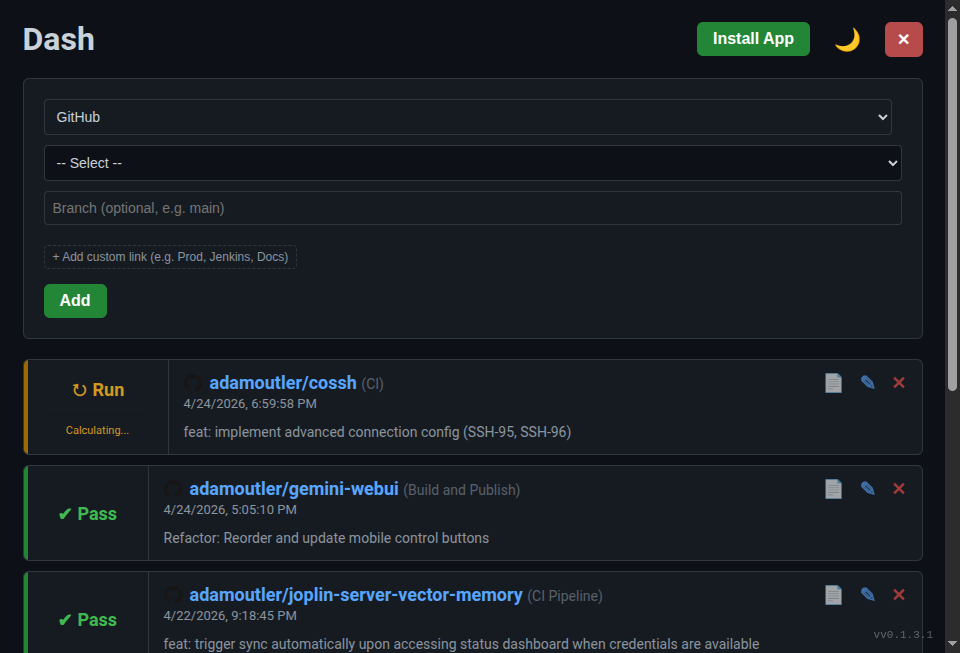
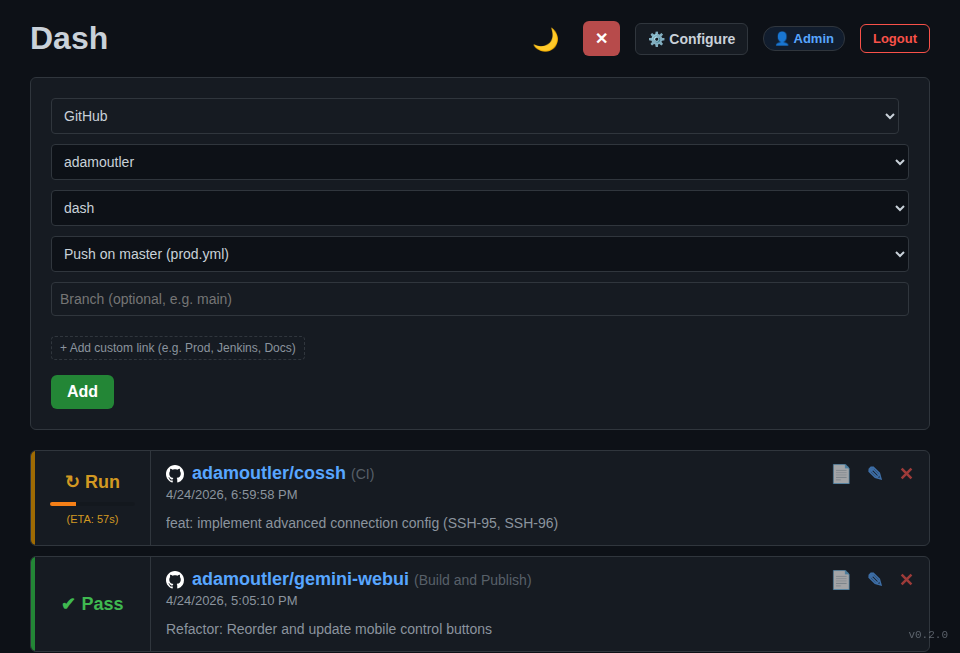
docs(readme): add contextual screenshots and visual tour for 4-domain auth

diff --git a/docs/dash-manual.md b/docs/dash-manual.md
@@ -1,60 +1,88 @@
 # Dash User Manual
 
-Dash is a CI/CD status monitoring dashboard designed to provide an overview of your repository builds and test runs from GitHub, Forgejo/Gitea, and Jenkins. It provides a visual interface for humans and a powerful REST API / MCP server for AI agents.
+Dash is a CI/CD status monitoring dashboard designed to provide an at-a-glance overview of your repository builds and test runs from GitHub, Forgejo/Gitea, and Jenkins. It provides a responsive visual interface for humans and a hardened REST API and Model Context Protocol (MCP) server for autonomous AI agents.
 
-## Overview
+## 1. Public Read-Only Dashboard
 
-The main dashboard gives you an at-a-glance view of all configured repositories and their current CI statuses.
+By default, visiting the root dashboard (`/`) provides a **public read-only view** without forcing a browser authentication popup. Anyone on your team can immediately check build health and inspect logs while mutating controls remain hidden.
 
-![Dash Home](img/dash-home.png)
+![Public Read-Only Dashboard](img/dash-public.png)
 
-From the home page, you can:
-- View the status of recent workflow runs (Pass, Fail, Running, etc.).
-- Click the direct links to view workflow run details or repository pages.
-- Access the raw logs using the **📄 View Logs** button.
-- Manage existing configurations using **✎ Edit** and **✕ Remove** buttons.
-- Toggle Dark Mode using the **🌙** button.
+From the public read-only view, you can:
+- View real-time statuses of recent workflow runs (`Pass`, `Fail`, `Run` with live ETA progress bars).
+- Click direct links to workflow runs, repositories, or custom quick-action links.
+- Inspect raw build logs using the **📄** button.
+- Toggle Light / Dark / Auto theme using the theme button (`☀` / `🌙` / `🌗`).
 
-## Configuration & Authentication
+## 2. Website Login & Google OAuth (Domains 3 & 4)
 
-Dash requires tokens or API keys to communicate securely with your providers and fetch private CI statuses. You must configure your providers before you can track repositories.
+To add or edit repositories or change system settings, click **🔒 Login** in the top-right header (or click **⚙ Configure Dashboard** in the footer).
 
-Click the **⚙ Configure Dashboard** link in the footer to access the configuration page.
+![Website Login & Google OAuth Modal](img/dash-login.png)
+
+Dash supports two human administrator login methods:
+- **Website Login (Domain 3)**: Sign in with your configured administrator username and password (`DASHBOARD_USER` / `DASHBOARD_PASSWORD`), establishing an `HttpOnly` signed session cookie with CSRF protection.
+- **Website OAuth (Domain 4)**: Click **Sign in with Google** when Google OIDC is configured (`GOOGLE_CLIENT_ID`, `GOOGLE_CLIENT_SECRET`, and `GOOGLE_ALLOWED_EMAILS`). Only verified Google accounts matching your explicit email allowlist are permitted.
+
+## 3. Authenticated Admin Dashboard
+
+Once authenticated, the dashboard unlocks all management controls in-place:
+
+![Authenticated Admin Dashboard](img/dash-home.png)
+
+Authenticated administrators can:
+- Verify their active session via the `👤 admin` user badge.
+- Open **+ Add Repository** to track new projects or **⚙ Configure** to manage credentials and tokens.
+- Use **✎ Edit** and **✕ Remove** on individual repository cards.
+- Sign out cleanly at any time via **Logout**.
+
+## 4. Adding & Editing Repositories
+
+Click **+ Add Repository** on the authenticated home page to open the cascading repository selector:
+
+![Add Repository Form](img/dash-add-repo.png)
+
+1. Select your CI Provider (**GitHub**, **Gitea/Forgejo**, or **Jenkins**).
+2. Browse or enter the repository owner/organization, repository/job path, and specific workflow.
+3. Optionally specify a target branch (e.g., `main`) and custom quick-action links.
+4. Click **Save Repository** to begin tracking.
+
+## 5. 4-Domain Security & Configuration Console (`/configure`)
+
+Click **⚙ Configure** in the header (or **⚙ Configure Dashboard** in the footer) to open the administrative configuration console:
 
 ![Configure Dashboard](img/dash-configure.png)
 
-### Setting Provider API Keys
-1. **GitHub Token**: Enter a Personal Access Token (classic or fine-grained) with read access to actions/workflows.
-2. **Forgejo/Gitea**: Enter your instance URL and an access token.
-3. **Jenkins**: Enter your Jenkins instance URL, username, and API token.
+### API / MCP OAuth 2.0 Connections (Domain 2: `mcp_oauth`)
+- When an MCP client (such as Google Gemini App, Gemini CLI, or Claude) connects to `/mcp`, Dash challenges it with RFC 9728 Protected Resource Metadata and guides the user through an OAuth 2.0 + PKCE (`S256`) flow at `/oauth/authorize`.
+- Incoming requests appear live in **API / MCP OAuth 2.0 Connections** (and as a real-time toast notification on any dashboard page) showing the requester's username and verification code (`DASH-XXXX-XXXX`).
+- Click **✔ Approve** to grant an MCP-scoped OAuth token (`domain="mcp_oauth"`) or **✘ Disapprove** to deny access. Active sessions can be revoked at any time under **Connected MCP OAuth Sessions**.
+
+### API Bearer Tokens (Domain 1: `api_token`)
+- Generate long-lived Bearer tokens under **API Bearer Tokens (Domain 1)** for CLI scripts, CI hooks, and `curl` commands calling `/api/*`.
+- Raw tokens are displayed only once upon creation and are stored as SHA-256 hashes on disk (masked as `tok_...` in the UI). Domain 1 API tokens are strictly isolated from `/mcp`.
+
+### Website Authentication (Domains 3 & 4)
+- Configure or update the local administrator username/password (**Domain 3**) and Google OAuth 2.0 Client ID, Client Secret, and comma-separated Allowed Emails (**Domain 4**).
+
+### Provider API Keys
+1. **GitHub**: Enter a Personal Access Token with read access to Actions/workflows.
+2. **Gitea/Forgejo**: Enter your instance URL and access token.
+3. **Jenkins**: Enter your Jenkins URL, username, and API token.
 4. Click **Save Keys**.
 
-### Creating Dashboard Tokens (For MCP / API)
-If the dashboard is secured, you can generate a Bearer token under the "Tokens" section. Enter a descriptive "Token Name" and click **Create Token**. You will use this token in the `Authorization: Bearer <TOKEN>` header when connecting via the API or MCP.
+## 6. AI & LLM Automation (MCP & REST API)
 
-## Adding a Repository
+Dash provides both a native MCP server (`/mcp`, authenticated via **Domain 2 MCP OAuth 2.0 + PKCE**) and a REST API (`/api/*`, authenticated via **Domain 1 API Bearer Tokens**).
 
-Once configured, to start tracking a new repository or CI job, click the **+ Add Repository** button on the home page. 
+### MCP Server Tools (`/mcp`)
+- `get_status(repo, workflow, provider, branch)`: Fetch the latest status of a tracked repository.
+- `get_logs(repo, workflow, provider, branch)`: Retrieve the log URL and tail of the latest build log.
+- `get_branches(repo, provider)`: List branches for a repository.
+- `wait(repo, workflow, provider, branch)`: Long-poll and wait for an active build to finish to save tokens.
 
-![Add Repository Modal](img/dash-add-repo.png)
-
-1. Select your CI Provider (GitHub, Forgejo / Gitea, or Jenkins).
-2. Select or enter the repository owner/name.
-3. Optionally specify a branch (e.g., `main`).
-4. Click **Add** to begin tracking.
-
-## AI & LLM Automation (MCP Integration)
-
-Dash is built to be an exceptional tool for AI agents (like Claude, Gemini, etc.) via the Model Context Protocol (MCP) and a REST API.
-
-### MCP Server
-The dashboard provides a native MCP Server accessible at `/mcp`. It exposes the following tools:
-- `get_status(repo, workflow, provider)`: Fetch the latest status of a tracked repository.
-- `get_logs(repo, workflow, provider)`: Get a URL to view the raw logs.
-- `wait(repo, workflow, provider)`: Long-poll and wait for an active build to finish to save tokens.
-
-### REST API Examples
+### REST API Examples (`/api/*`)
 - **Get All Statuses**: `curl -s https://dash.hackedyour.info/api/status`
-- **Wait for Build**: `curl -N -s "https://dash.hackedyour.info/api/wait?provider=github&owner=adamoutler&repo=gemini-webui"`
+- **Wait for Build**: `curl -N -s -H "Authorization: Bearer $DASH_TOKEN" "https://dash.hackedyour.info/api/wait?provider=github&owner=adamoutler&repo=gemini-webui"`
 
-For more detailed API instructions, AI agents should refer to `<dash-url>/llms.txt`.
+For complete agent instructions, point your LLM to `<dash-url>/llms.txt`.

diff --git a/README.md b/README.md
@@ -118,4 +118,39 @@ Just point your agent to `<your-dashboard-url>/llms.txt` and tell it to read the
 *(Note: Keep it safe! Run locally or on an internal network, not the public internet).*
 
 ---
+
+## 📸 Contextual Screenshots & Visual Tour
+
+Dash enforces a **4-Domain Authentication Architecture** that keeps build statuses and logs effortlessly viewable while locking down all write operations, configuration settings, REST API tokens, and MCP OAuth agent sessions behind dedicated security boundaries.
+
+### 1. Public Read-Only Dashboard (`dash-public.png`)
+Unauthenticated visitors get an immediate, zero-popup read-only view of all tracked repositories across GitHub, Gitea/Forgejo, and Jenkins. Team members can inspect `Pass`, `Fail`, and `Run` cards (complete with live ETA progress bars), follow custom quick-action links, and open build logs (`📄`) while all administrative write controls (`✎ Edit`, `✕ Remove`, `+ Add Repository`, and `⚙ Configure`) remain strictly hidden until sign-in.
+
+![Public Read-Only Dashboard](docs/img/dash-public.png)
+
+### 2. Website Login & Google OAuth (`dash-login.png`)
+Clicking **🔒 Login** opens the authentication modal supporting two independent human authentication domains: **Domain 3 (Website Login)** via local administrator username/password (`POST /api/auth/login` with `HttpOnly` signed session cookies and CSRF protection) and **Domain 4 (Website OAuth)** via **Sign in with Google** (OpenID Connect Relying Party restricted to an explicit allowlist of verified email addresses).
+
+![Website Login & Google OAuth Modal](docs/img/dash-login.png)
+
+### 3. Authenticated Admin Dashboard (`dash-home.png`)
+Once signed in, the dashboard unlocks full administrative controls in-place: the header displays the active administrator badge (`👤 admin`), `+ Add Repository`, `⚙ Configure`, and `Logout`, while each repository card reveals `✎ Edit` and `✕ Remove` actions.
+
+![Authenticated Admin Dashboard](docs/img/dash-home.png)
+
+### 4. Adding & Editing Repositories (`dash-add-repo.png`)
+Clicking **+ Add Repository** opens the interactive cascading path browser. Administrators can select **GitHub**, **Gitea/Forgejo**, or **Jenkins**, drill down through organizations, repositories, folders, and workflows, filter by branch, and attach custom quick-action links (such as production deployments, issue trackers, or coverage reports).
+
+![Adding & Editing Repositories](docs/img/dash-add-repo.png)
+
+### 5. 4-Domain Security & Configuration Console (`dash-configure.png`)
+The **⚙ Configure** console (`/configure`) provides centralized management across all four security domains and CI providers:
+- **Domain 2 — API / MCP OAuth 2.0 Connections**: Real-time approval queue (`✔ Approve` / `✘ Disapprove`) with verification codes (`DASH-XXXX-XXXX`) for incoming AI agent connections (such as Google Gemini App, Gemini CLI, and Claude via RFC 9728 / RFC 8414 / RFC 7591 + PKCE `S256`) and active session revocation.
+- **Domain 1 — API Bearer Tokens**: Generation and revocation of SHA-256 hashed Bearer tokens (`tok_...`) scoped exclusively to programmatic REST `/api/*` endpoints and CI hooks.
+- **Domains 3 & 4 — Website Authentication**: Configuration for Local Admin credentials and Website OAuth (Google Client ID, Client Secret, and comma-separated Allowed Emails).
+- **Provider API Keys**: Credential management for **GitHub**, **Gitea/Forgejo**, and **Jenkins**.
+
+![4-Domain Security & Configuration Console](docs/img/dash-configure.png)
+
+---
 **💡 Loving the seamless workflow? Drop a ⭐ on the repo and share your favorite AI automated workflows in the issues!**
